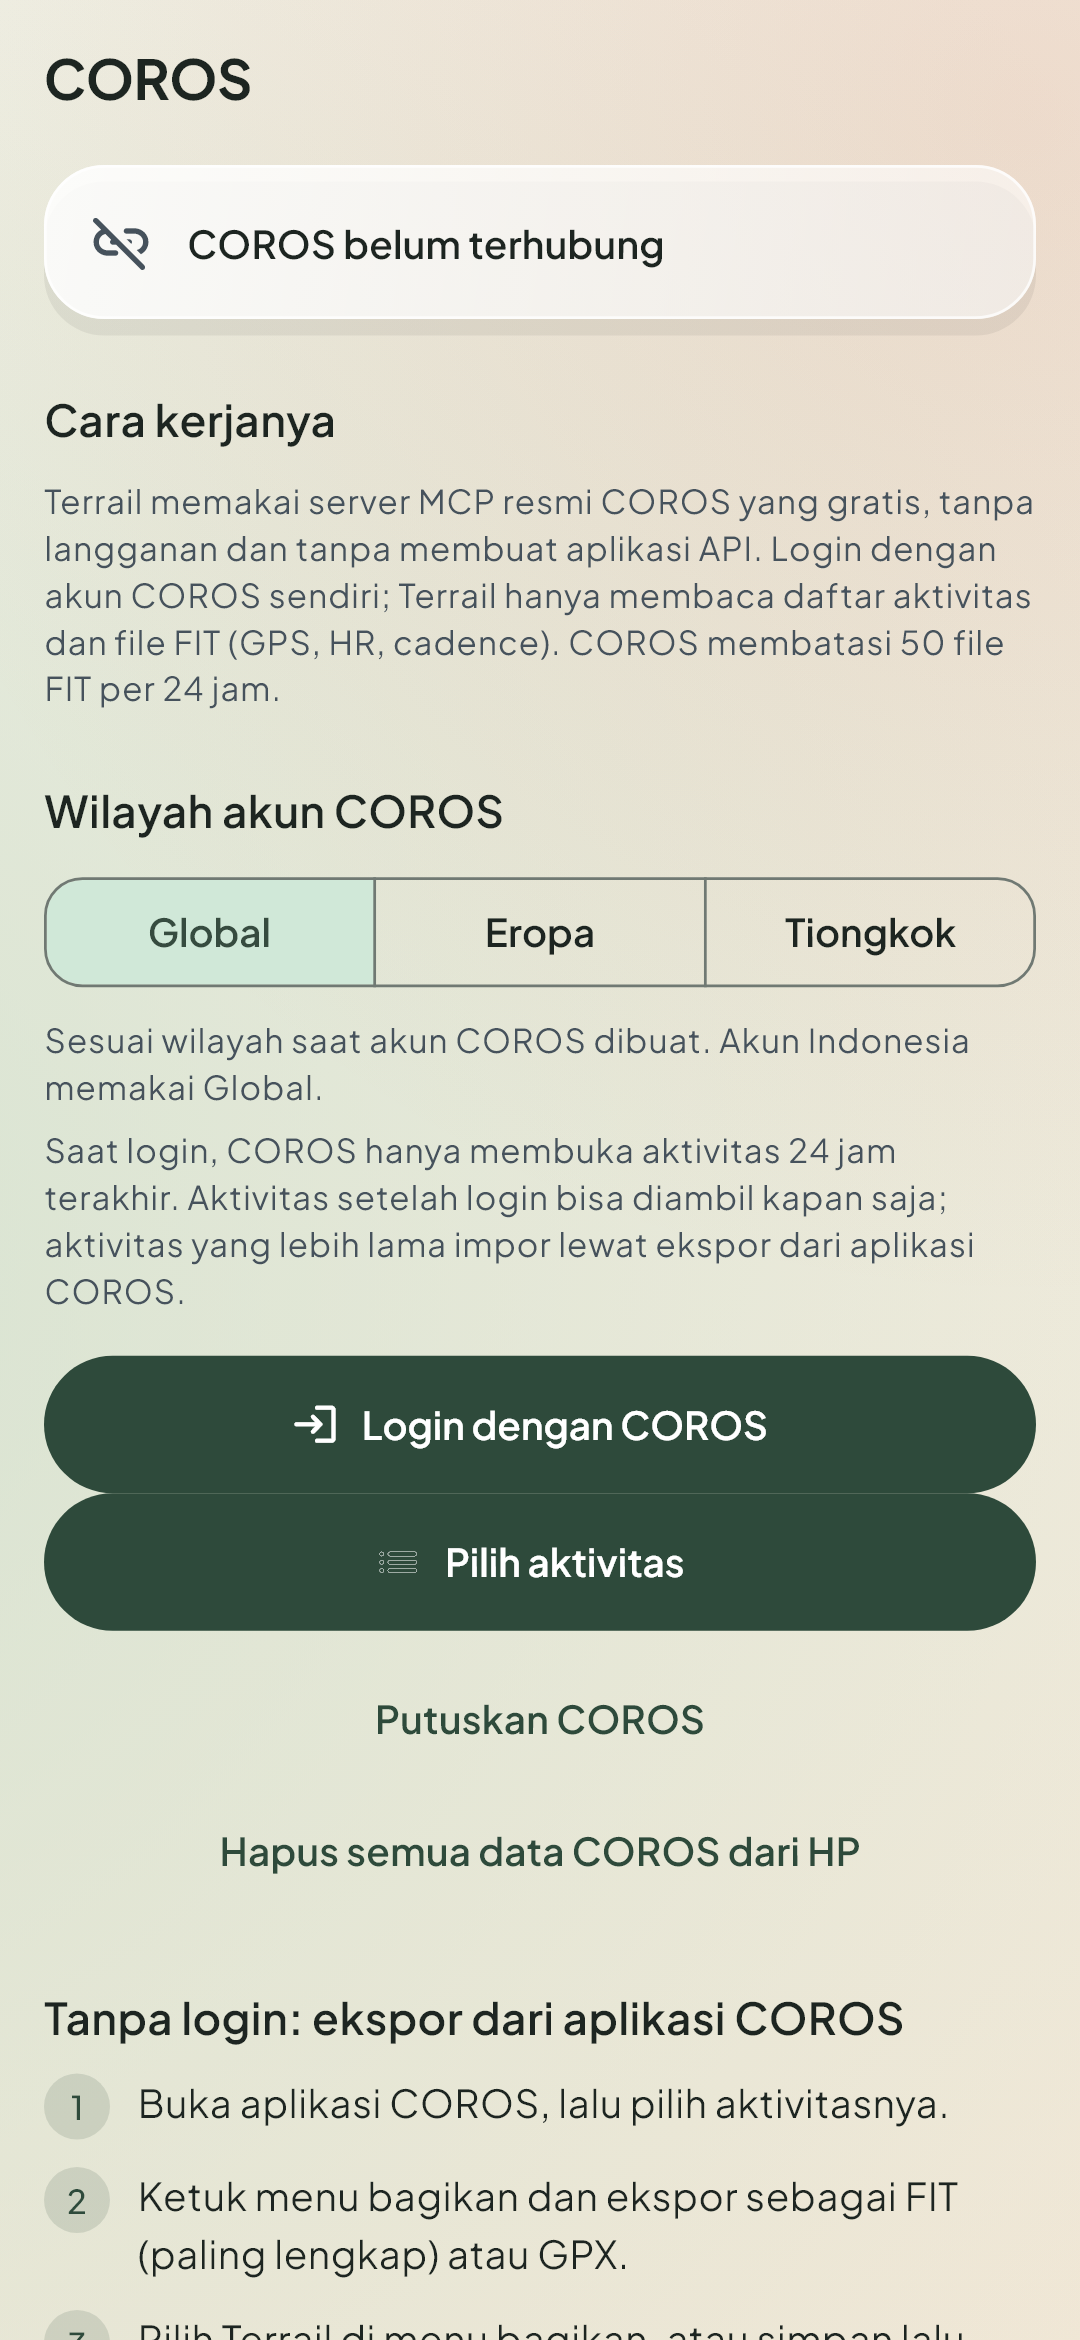
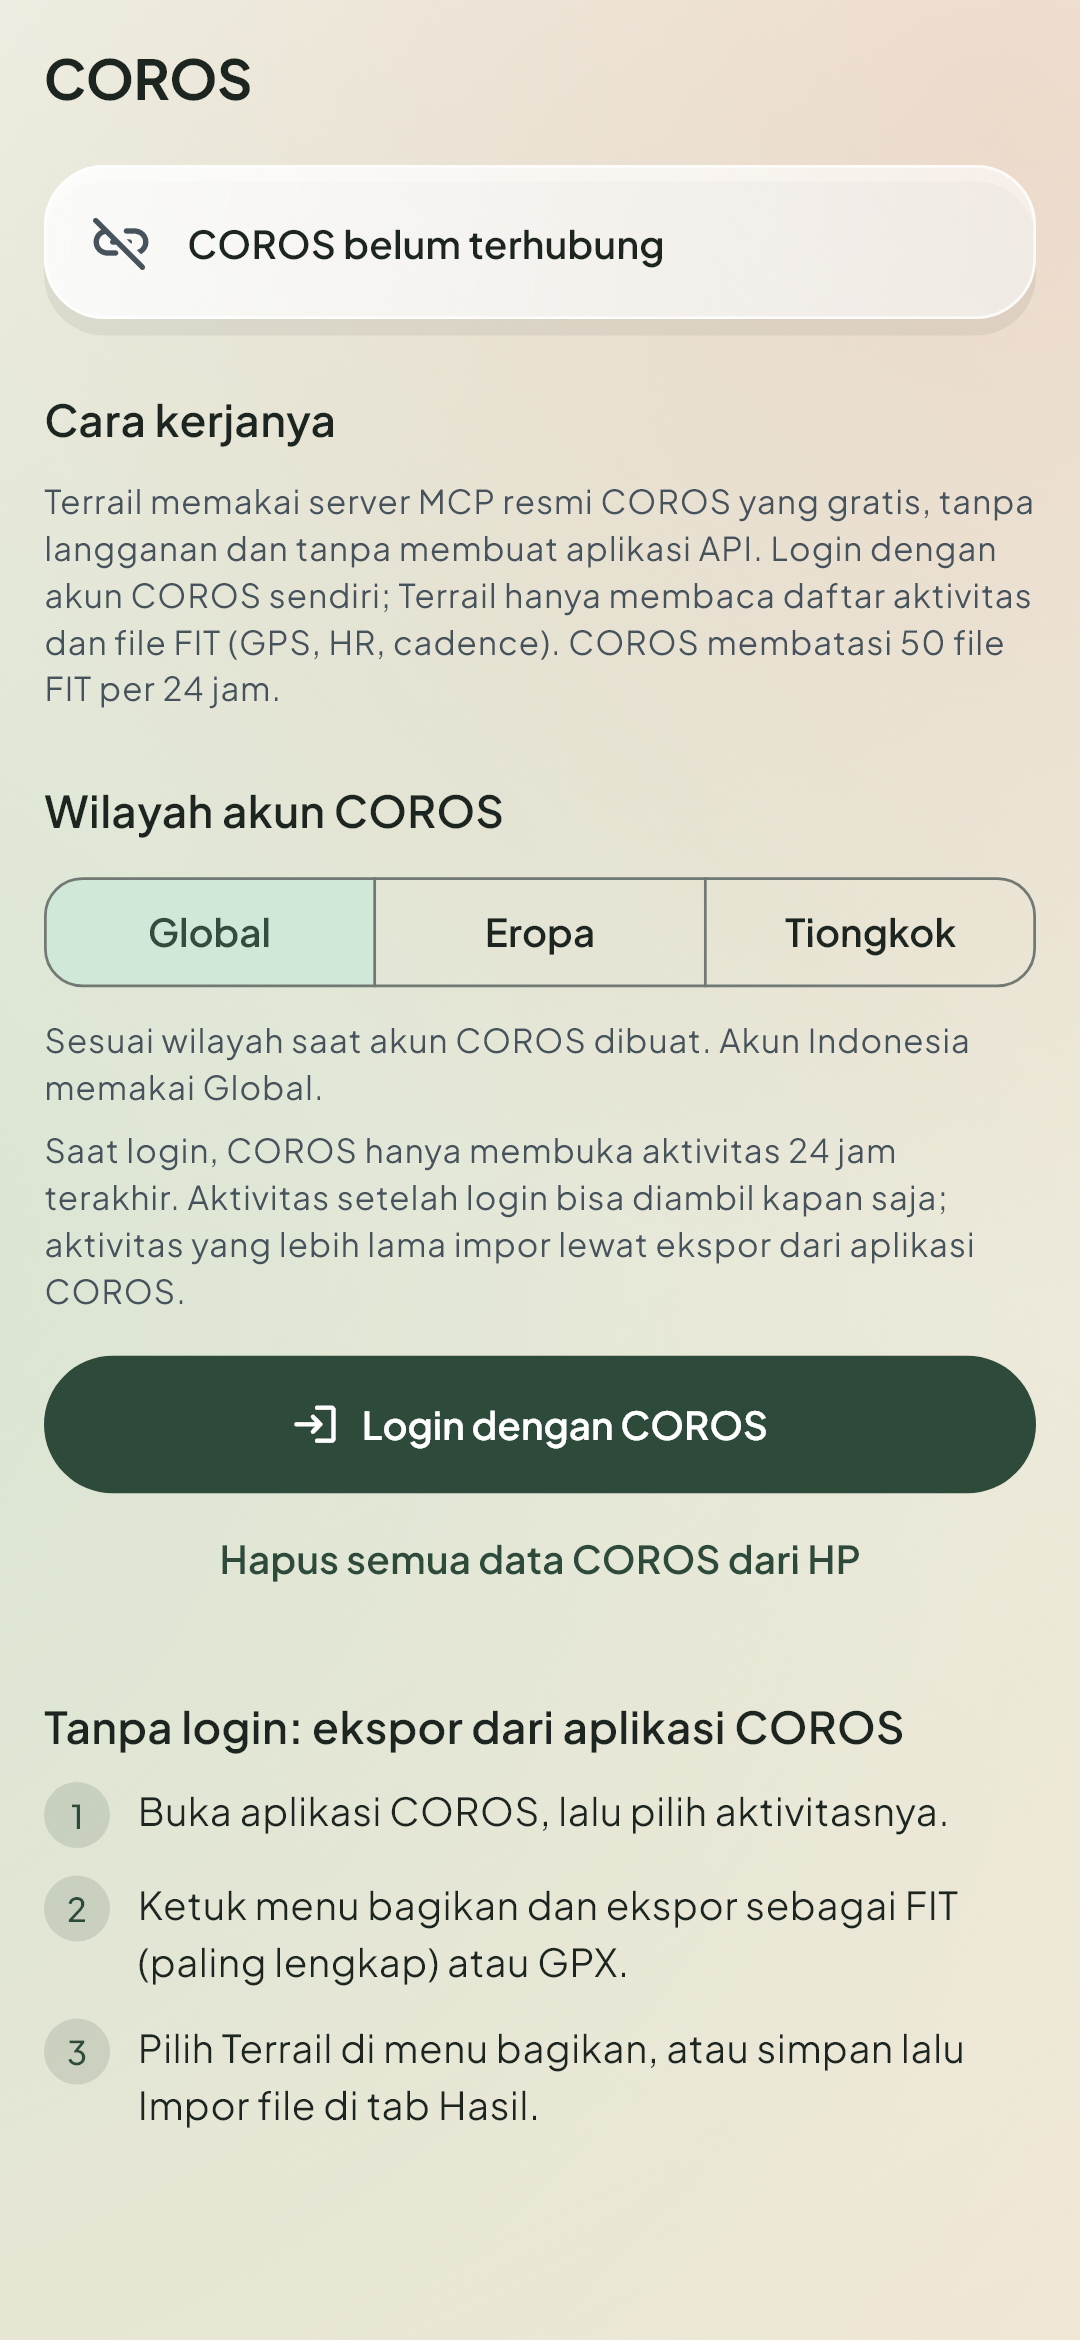
README: Garmin, Amazfit, dan perbaikan tangkapan layar COROS

Changed region(s): [[0.0306, 0.6239, 0.9778, 1.0], [0.7028, 0.9359, 0.825, 0.9671], [0.6111, 0.9359, 0.6722, 0.9671]]

diff --git a/README.md b/README.md
@@ -45,6 +45,11 @@ Impor file GPX rute lomba, dan Terrail menghitung target pace untuk setiap tanja
     <td align="center"><img src="docs/screenshots/14-strava.png" width="240"><br><sub>Ambil dari Strava</sub></td>
     <td align="center"><img src="docs/screenshots/15-tentang-dukung.png" width="240"><br><sub>Tentang dan dukung lewat Saweria</sub></td>
   </tr>
+  <tr>
+    <td align="center"><img src="docs/screenshots/16-garmin.png" width="240"><br><sub>Ambil dari Garmin, gratis</sub></td>
+    <td></td>
+    <td></td>
+  </tr>
 </table>
 
 <sub>Rute di tangkapan layar: GPX publik Siksorogo Lawu Ultra 120K 2026. Rekaman lari, HR, dan cadence di layar Hasil adalah contoh sintetis.</sub>
@@ -74,6 +79,8 @@ Impor file GPX rute lomba, dan Terrail menghitung target pace untuk setiap tanja
 - Pace aktual per medan, termasuk perbandingan dengan rencana yang disimpan sebelum lomba.
 - **Temuan otomatis**, misalnya "turunan curammu lebih lambat dari turunan biasa", positive atau negative split, km tercepat dan terlambat, serta total waktu berhenti.
 - Hubungkan rekaman ke rute lomba untuk waktu tiba di WS dan waktu chip resmi.
+- **Ambil dari Garmin** lewat Personal API key resmi (gratis sejak Oktober 2026): buat key di Garmin Connect, tempel di Terrail, lalu file FIT masuk lengkap dengan HR dan cadence. Key hanya untuk akunmu sendiri.
+- **Amazfit (Zepp):** panduan ekspor GPX dari aplikasi Zepp, karena Zepp tidak punya API publik.
 - **Ambil dari COROS** lewat server MCP resmi COROS: gratis, tanpa langganan dan tanpa membuat aplikasi API. Login dengan akun COROS, lalu file FIT masuk lengkap dengan **HR dan cadence** (batas COROS 50 file per 24 jam).
 - **Huawei Health:** panduan ekspor GPX di dalam aplikasi. Huawei tidak membuka data latihan dan GPS untuk developer pribadi, jadi ekspor file adalah jalur paling lengkap.
 - **Ambil dari Strava** lewat Strava API resmi: pilih aktivitas dari daftar, dan data masuk lengkap dengan **HR dan cadence**. Sejak Juni 2026 Strava mewajibkan langganan untuk *membuat* aplikasi API; teman bisa memakai aplikasi API milik satu orang (sampai 10 akun).
@@ -123,7 +130,7 @@ Format yang didukung: GPX, TCX, KML, KMZ, dan FIT.
 ## Privasi
 
 - Semua data tersimpan di HP. Tanpa akun, server, atau iklan.
-- Aplikasi tidak meminta izin lokasi atau notifikasi. Izin internet hanya dipakai untuk Strava dan COROS, dan hanya menghubungi server keduanya. Izin galeri hanya untuk Android 10 ke bawah.
+- Aplikasi tidak meminta izin lokasi atau notifikasi. Izin internet hanya dipakai untuk Strava, COROS, dan Garmin, dan hanya menghubungi server ketiganya. Izin galeri hanya untuk Android 10 ke bawah.
 - Sandi Strava dan COROS tidak pernah dilihat Terrail, karena login dilakukan di aplikasi Strava atau browser. Client Secret dan token disimpan terenkripsi di HP.
 - Backup otomatis Android dimatikan, sehingga data lari tidak tersalin ke cloud.
 
@@ -147,7 +154,7 @@ Terrail gratis dan akan tetap gratis. Kalau aplikasinya membantu latihan atau lo
 <details>
 <summary><b>English</b></summary>
 
-Terrail is a free, offline Android app for trail and road runners. Import a race GPX to get target pace for every climb, flat and descent (from your profile, learned from your own runs, or set by hand, and scaled to your finish target), route highlights (where to push, the toughest climb, technical descents, and when to eat) marked on the elevation chart, a listen-to-your-body reminder with HR limits, a fuel plan translated into real foods and products, and km splits. Import a run from your watch for terrain pace, splits and automatic insights. The studio turns both into story or feed cards and transparent PNG stickers, with an Instagram Story safe zone. Import runs with heart rate and cadence from COROS (free, through COROS's official MCP server) or Strava (official API; creating a Strava API app needs a Strava subscription since June 2026), and follow the in-app guide to export GPX from Huawei Health. No Terrail account, all data stays on the phone; the internet permission is only used for Strava and COROS. Download the APK from the [latest release](https://github.com/alimxtar/terrail/releases/latest); Android 7.0 or newer. Terrail is free; if it helps you, you can support the developer on [Saweria](https://saweria.co/mxctr).
+Terrail is a free, offline Android app for trail and road runners. Import a race GPX to get target pace for every climb, flat and descent (from your profile, learned from your own runs, or set by hand, and scaled to your finish target), route highlights (where to push, the toughest climb, technical descents, and when to eat) marked on the elevation chart, a listen-to-your-body reminder with HR limits, a fuel plan translated into real foods and products, and km splits. Import a run from your watch for terrain pace, splits and automatic insights. The studio turns both into story or feed cards and transparent PNG stickers, with an Instagram Story safe zone. Import runs with heart rate and cadence from COROS (free, through COROS's official MCP server) Garmin (your own free Personal API key), or Strava (official API; creating a Strava API app needs a Strava subscription since June 2026), and follow the in-app guide to export GPX from Huawei Health. No Terrail account, all data stays on the phone; the internet permission is only used for Strava, COROS, and Garmin. Download the APK from the [latest release](https://github.com/alimxtar/terrail/releases/latest); Android 7.0 or newer. Terrail is free; if it helps you, you can support the developer on [Saweria](https://saweria.co/mxctr).
 
 </details>
 
